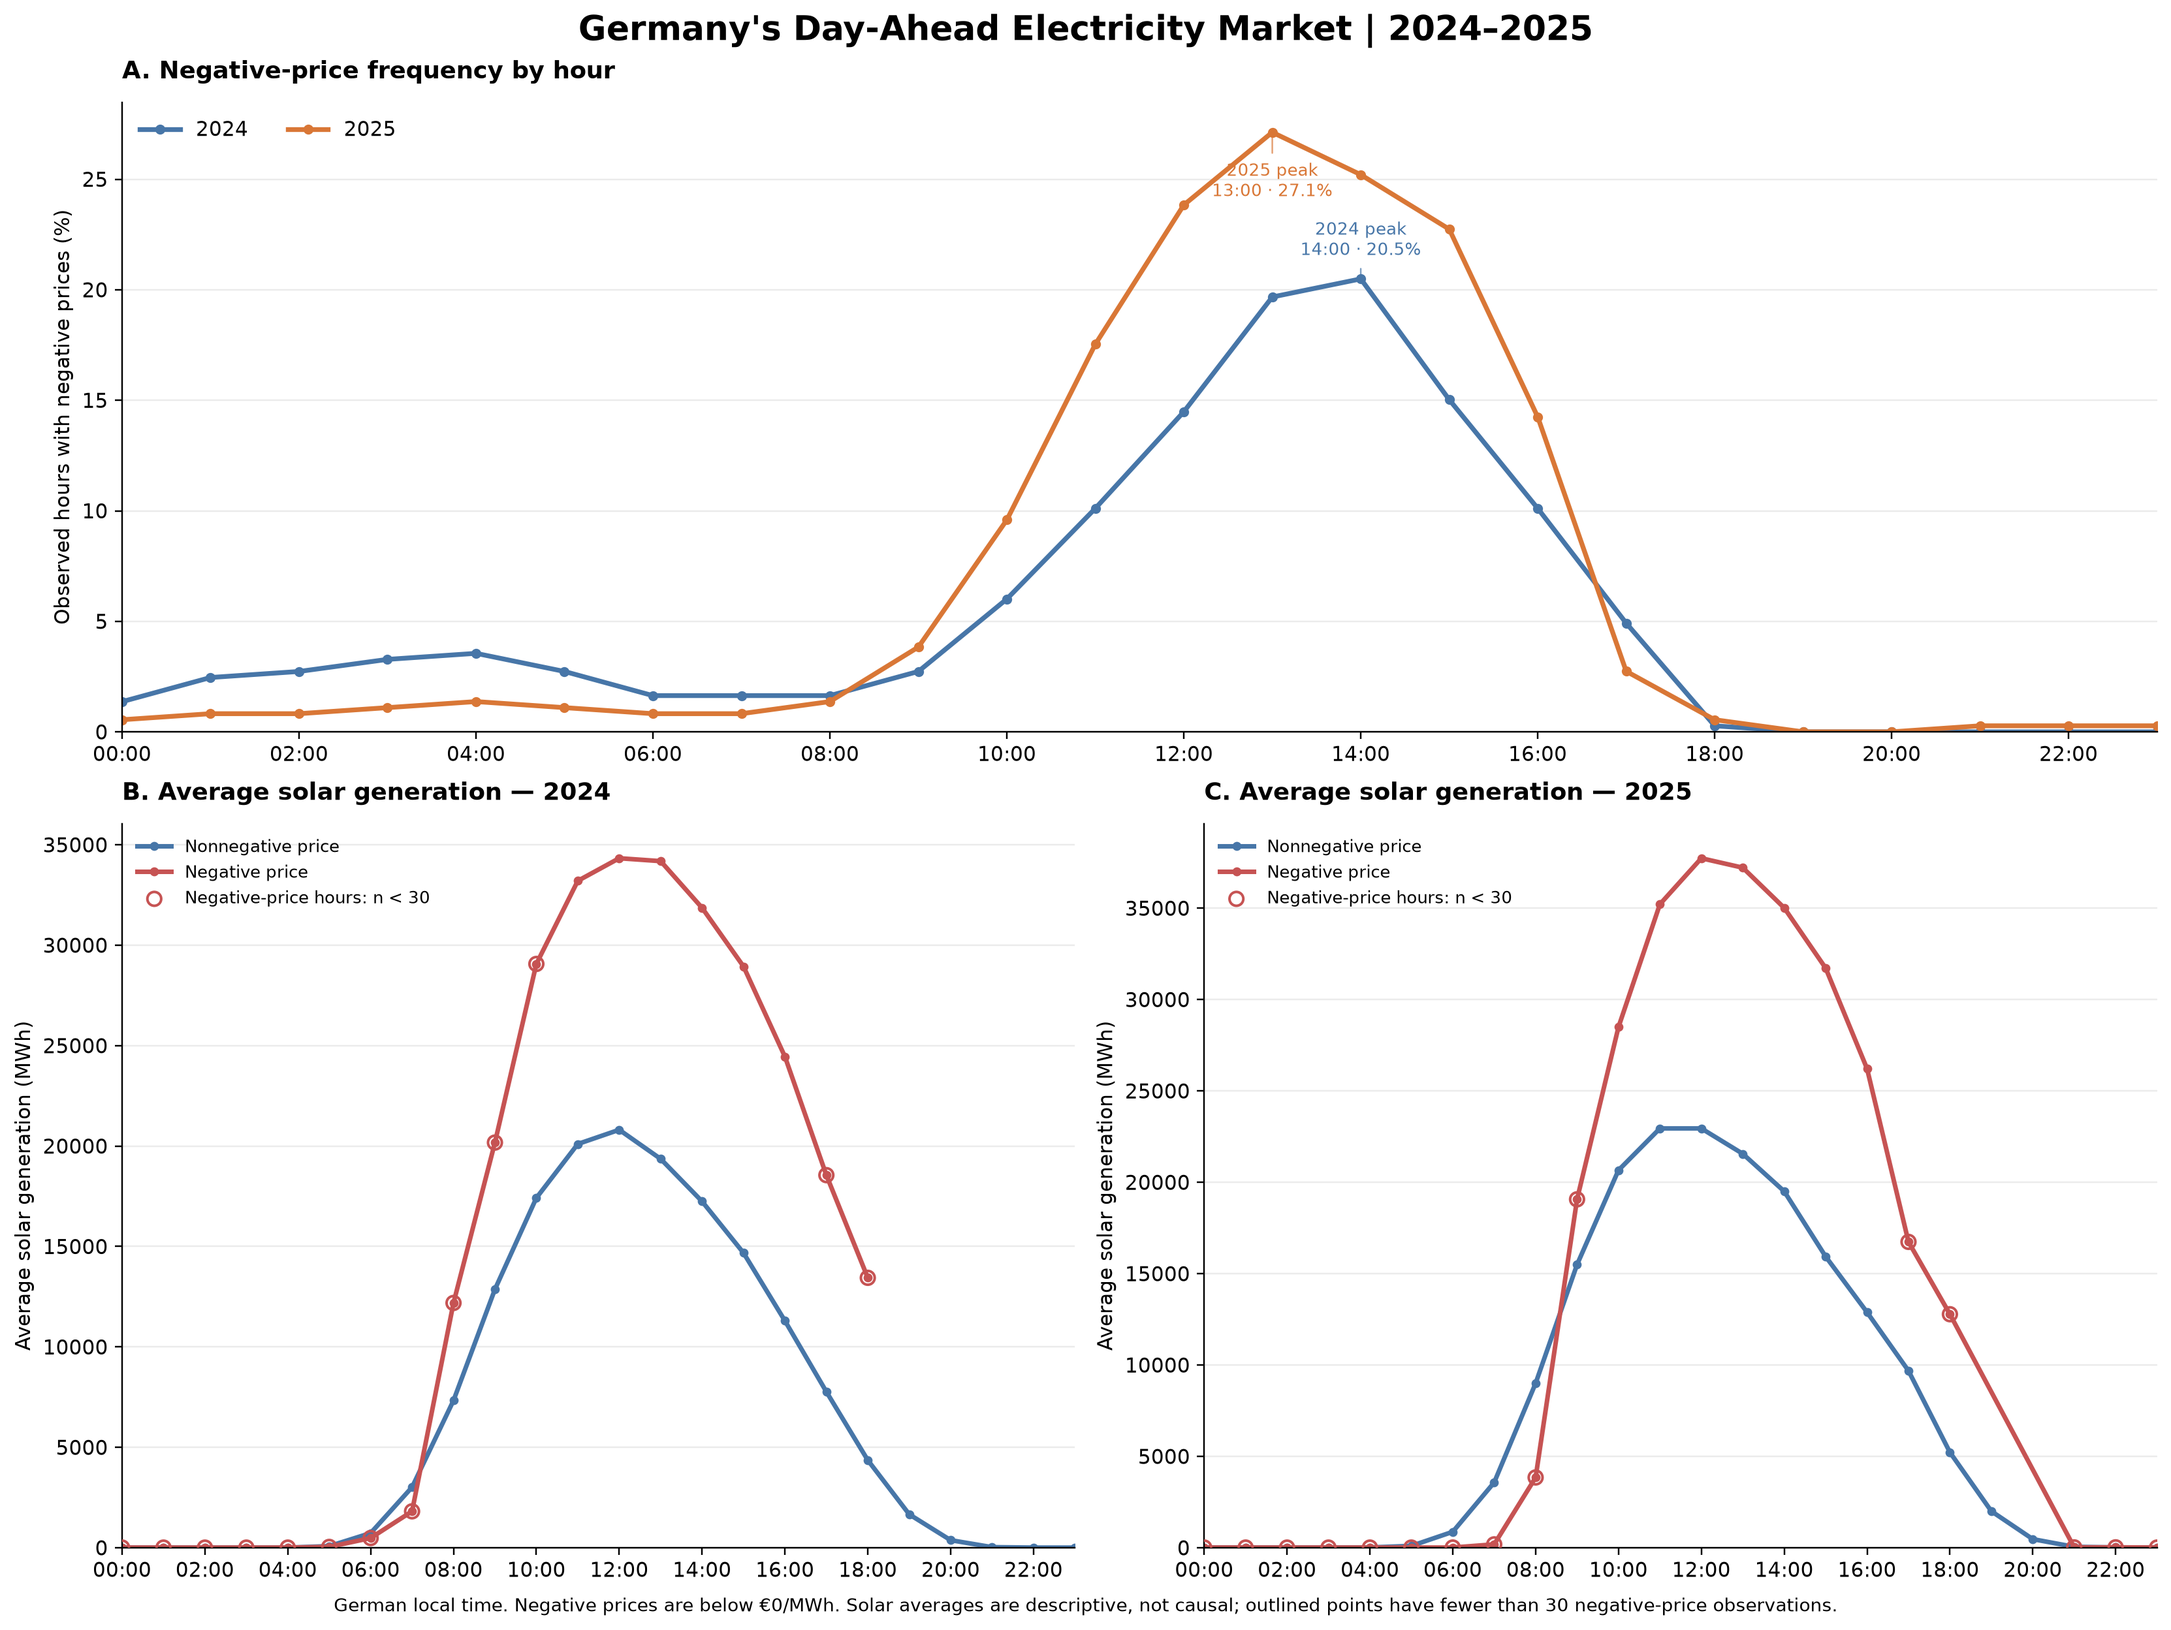
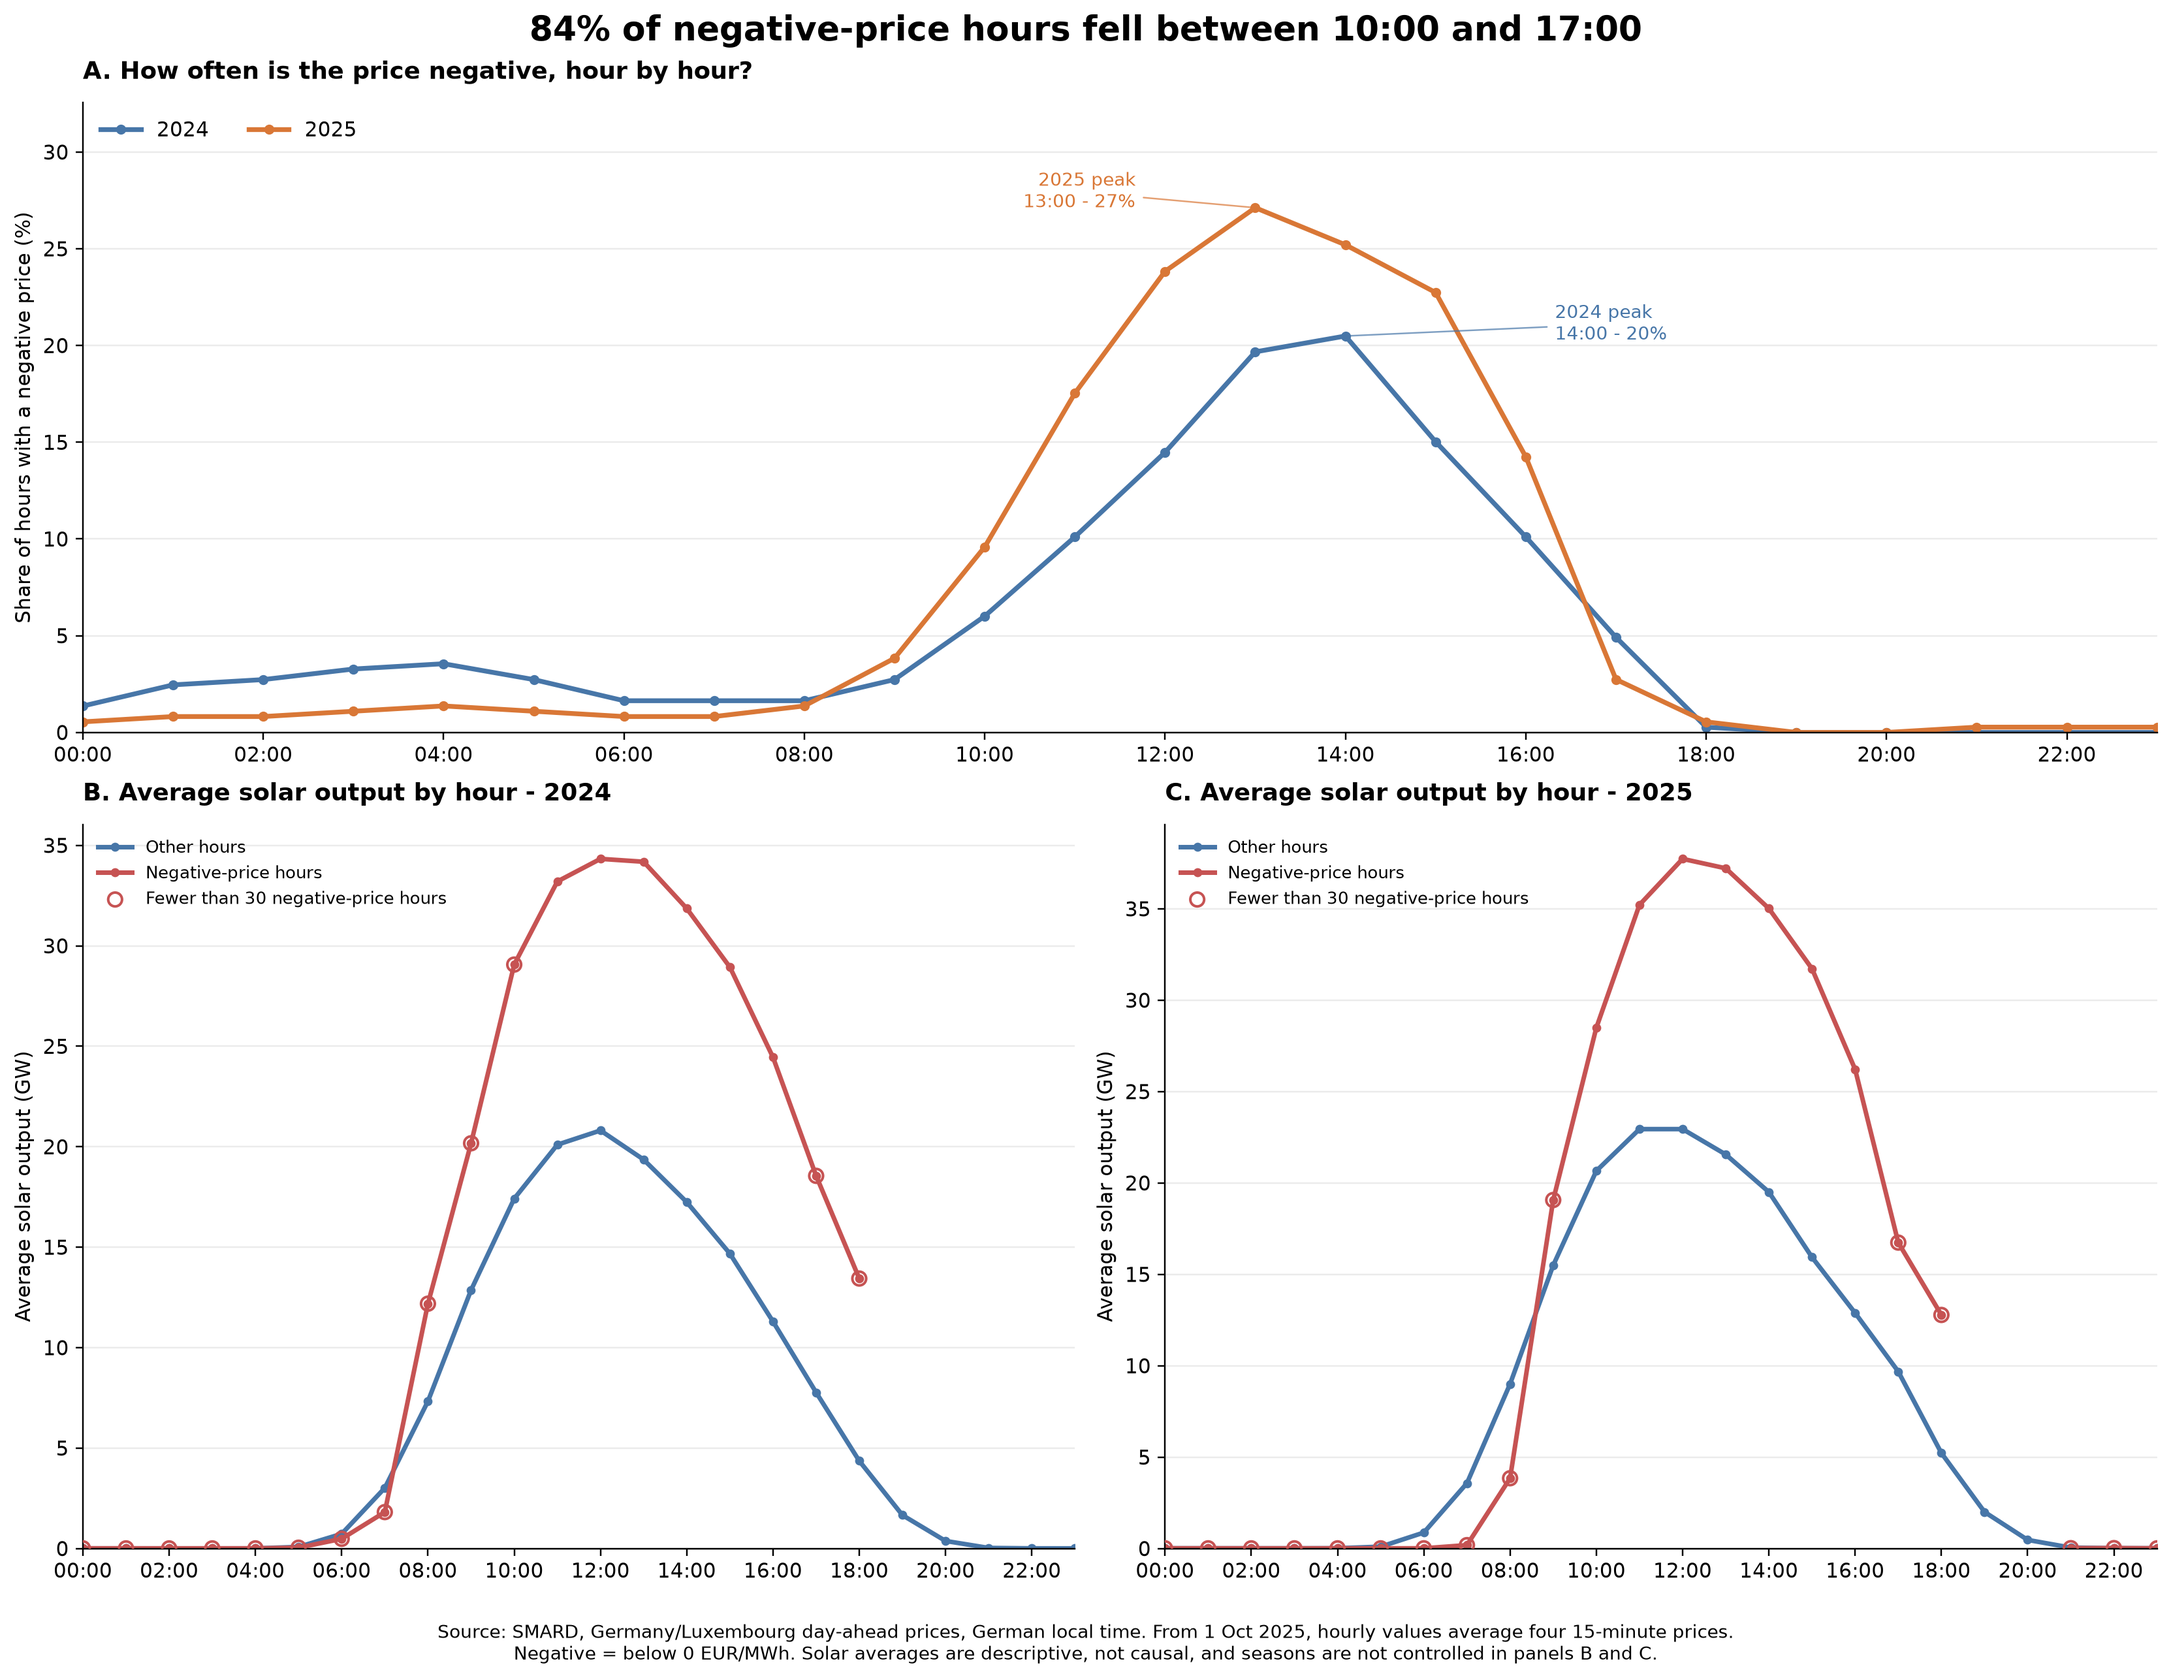
Redesign hour-of-day chart: plain headline, GW units, gaps for missing hours

diff --git a/src/gridsignal/plot_hour_of_day_analysis.py b/src/gridsignal/plot_hour_of_day_analysis.py
@@ -1,34 +1,43 @@
-
-from pathlib import Path
-
 import matplotlib.pyplot as plt
 import pandas as pd
 
+from gridsignal import config
 
-OUTPUT_DIR = Path("docs")
+FREQUENCY_FILE = config.DOCS_DIR / "hourly_negative_price_frequency_2024_2025.csv"
+SOLAR_FILE = config.DOCS_DIR / "hourly_solar_by_price_category_2024_2025.csv"
+OUTPUT_FILE = config.DOCS_DIR / "hour_of_day_analysis_2024_2025.png"
 
-FREQUENCY_FILE = (
-    OUTPUT_DIR / "hourly_negative_price_frequency_2024_2025.csv"
-)
-SOLAR_FILE = (
-    OUTPUT_DIR / "hourly_solar_by_price_category_2024_2025.csv"
-)
-OUTPUT_FILE = OUTPUT_DIR / "hour_of_day_analysis_2024_2025.png"
+MIDDAY_HOURS = range(10, 17)  # 10:00-16:59 German local time
+MIN_HOURS = 30  # fewer negative-price hours than this = flagged as a small sample
+ALL_HOURS = range(24)
 
-HOURS = list(range(24))
-
-# Use a consistent visual identity across all panels.
 COLORS = {
     "2024": "#4776A8",
     "2025": "#D97736",
     "Negative price": "#C65353",
     "Nonnegative price": "#4776A8",
 }
+LABELS = {
+    "Negative price": "Negative-price hours",
+    "Nonnegative price": "Other hours",
+}
+
+# Peak labels sit in empty space beside each curve, not on top of it.
+PEAK_LABEL_OFFSETS = {2024: (105, 6), 2025: (-60, 8)}
+PEAK_LABEL_ALIGN = {2024: "left", 2025: "right"}
+
+REQUIRED_FREQUENCY = {
+    "year", "hour", "observed_hours",
+    "negative_price_hours", "negative_price_rate_pct",
+}
+REQUIRED_SOLAR = {
+    "year", "hour", "price_category", "observed_hours", "average_solar_mwh",
+}
 
 
 def load_data():
-    """Load and validate the hourly analysis outputs."""
-    for path in [FREQUENCY_FILE, SOLAR_FILE]:
+    """Load and validate the outputs of analyze_hour_of_day.py."""
+    for path in (FREQUENCY_FILE, SOLAR_FILE):
         if not path.exists():
             raise FileNotFoundError(
                 f"Required file not found: {path}\n"
@@ -38,56 +47,42 @@ def load_data():
     frequency = pd.read_csv(FREQUENCY_FILE)
     solar = pd.read_csv(SOLAR_FILE)
 
-    required_frequency = {
-        "year",
-        "hour",
-        "observed_hours",
-        "negative_price_hours",
-        "negative_price_rate_pct",
-    }
-    required_solar = {
-        "year",
-        "hour",
-        "price_category",
-        "observed_hours",
-        "average_solar_mwh",
-    }
-
-    if not required_frequency.issubset(frequency.columns):
-        missing = required_frequency - set(frequency.columns)
-        raise ValueError(
-            f"Frequency file is missing columns: {sorted(missing)}"
-        )
-
-    if not required_solar.issubset(solar.columns):
-        missing = required_solar - set(solar.columns)
-        raise ValueError(
-            f"Solar file is missing columns: {sorted(missing)}"
-        )
+    for name, table, required in (
+        ("Frequency", frequency, REQUIRED_FREQUENCY),
+        ("Solar", solar, REQUIRED_SOLAR),
+    ):
+        missing = required - set(table.columns)
+        if missing:
+            raise ValueError(f"{name} file is missing columns: {sorted(missing)}")
 
     return frequency, solar
+
+
+def midday_share(frequency):
+    """Share of all negative-price hours that fall in the midday window."""
+    total = frequency["negative_price_hours"].sum()
+    midday = frequency.loc[
+        frequency["hour"].isin(MIDDAY_HOURS), "negative_price_hours"
+    ].sum()
+    return midday / total * 100
 
 
 def style_axis(ax):
     """Apply consistent styling to a chart axis."""
     ax.set_xlim(0, 23)
     ax.set_xticks(range(0, 24, 2))
-    ax.set_xticklabels(
-        [f"{hour:02d}:00" for hour in range(0, 24, 2)]
-    )
+    ax.set_xticklabels([f"{hour:02d}:00" for hour in range(0, 24, 2)])
     ax.grid(axis="y", alpha=0.25, linewidth=0.8)
     ax.spines["top"].set_visible(False)
     ax.spines["right"].set_visible(False)
 
 
 def plot_frequency(ax, frequency):
-    """Plot negative-price rates by local hour."""
-    for year in sorted(frequency["year"].unique()):
-        year_data = (
-            frequency[frequency["year"] == year]
-            .sort_values("hour")
-        )
+    """Plot the share of hours with a negative price, by hour of day."""
+    years = sorted(frequency["year"].unique())
 
+    for year in years:
+        year_data = frequency[frequency["year"] == year].sort_values("hour")
         ax.plot(
             year_data["hour"],
             year_data["negative_price_rate_pct"],
@@ -98,26 +93,20 @@ def plot_frequency(ax, frequency):
             label=str(year),
         )
 
-    # Mark the highest observed rate in each year.
-    for year in sorted(frequency["year"].unique()):
+    # Mark the highest observed rate in each year (computed from the data).
+    for year in years:
         year_data = frequency[frequency["year"] == year]
-        peak = year_data.loc[
-            year_data["negative_price_rate_pct"].idxmax()
-        ]
-
+        peak = year_data.loc[year_data["negative_price_rate_pct"].idxmax()]
         ax.annotate(
             f"{int(year)} peak\n"
-            f"{int(peak['hour']):02d}:00 · "
-            f"{peak['negative_price_rate_pct']:.1f}%",
-            xy=(
-                peak["hour"],
-                peak["negative_price_rate_pct"],
-            ),
-            xytext=(0, 12 if int(year) == 2024 else -32),
+            f"{int(peak['hour']):02d}:00 - {peak['negative_price_rate_pct']:.0f}%",
+            xy=(peak["hour"], peak["negative_price_rate_pct"]),
+            xytext=PEAK_LABEL_OFFSETS.get(int(year), (0, 12)),
             textcoords="offset points",
             color=COLORS[str(year)],
-            fontsize=8.5,
-            ha="center",
+            fontsize=9,
+            ha=PEAK_LABEL_ALIGN.get(int(year), "center"),
+            va="center",
             arrowprops={
                 "arrowstyle": "-",
                 "color": COLORS[str(year)],
@@ -127,123 +116,106 @@ def plot_frequency(ax, frequency):
         )
 
     ax.set_title(
-        "A. Negative-price frequency by hour",
+        "A. How often is the price negative, hour by hour?",
         loc="left",
         fontweight="bold",
         pad=12,
     )
-    ax.set_ylabel("Observed hours with negative prices (%)")
-    ax.set_ylim(bottom=0)
+    ax.set_ylabel("Share of hours with a negative price (%)")
+    ax.set_ylim(0, frequency["negative_price_rate_pct"].max() * 1.2)
     ax.legend(frameon=False, ncol=2, loc="upper left")
     style_axis(ax)
 
 
-def plot_solar_year(ax, solar, year):
-    """Compare solar generation by price category for one year."""
+def plot_solar_year(ax, solar, year, letter):
+    """Compare solar output in negative-price and other hours for one year."""
     year_data = solar[solar["year"] == year]
 
-    for category in ["Nonnegative price", "Negative price"]:
+    for category in ("Nonnegative price", "Negative price"):
+        # Reindex to all 24 hours so an hour with no observations becomes a
+        # gap in the line instead of a straight line drawn across it.
         category_data = (
             year_data[year_data["price_category"] == category]
-            .sort_values("hour")
+            .set_index("hour")
+            .reindex(ALL_HOURS)
         )
-
-        # A line is shown only for hours with observed data in
-        # this category. Missing combinations remain gaps.
         ax.plot(
-            category_data["hour"],
-            category_data["average_solar_mwh"],
+            category_data.index,
+            category_data["average_solar_mwh"] / 1000,  # MWh per hour -> GW
             color=COLORS[category],
             linewidth=2.3,
             marker="o",
             markersize=3.5,
-            label=category,
+            label=LABELS[category],
         )
 
-    # The overnight negative-price averages often have very small
-    # samples. Flag those points rather than hiding their uncertainty.
-    negative_data = year_data[
-        year_data["price_category"] == "Negative price"
-    ]
-
-    sparse = negative_data[
-        negative_data["observed_hours"] < 30
-    ]
-
+    # Overnight negative-price averages rest on very few hours; flag them
+    # instead of hiding the uncertainty.
+    negative = year_data[year_data["price_category"] == "Negative price"]
+    sparse = negative[negative["observed_hours"] < MIN_HOURS]
     if not sparse.empty:
         ax.scatter(
             sparse["hour"],
-            sparse["average_solar_mwh"],
+            sparse["average_solar_mwh"] / 1000,
             s=48,
             facecolors="none",
             edgecolors=COLORS["Negative price"],
             linewidths=1.3,
             zorder=5,
-            label="Negative-price hours: n < 30",
+            label=f"Fewer than {MIN_HOURS} negative-price hours",
         )
 
     ax.set_title(
-        f"{'B' if year == 2024 else 'C'}. Average solar generation — {year}",
+        f"{letter}. Average solar output by hour - {year}",
         loc="left",
         fontweight="bold",
         pad=12,
     )
-    ax.set_ylabel("Average solar generation (MWh)")
+    ax.set_ylabel("Average solar output (GW)")
     ax.set_ylim(bottom=0)
     ax.legend(frameon=False, fontsize=8.5, loc="upper left")
     style_axis(ax)
 
 
 def main():
-    OUTPUT_DIR.mkdir(parents=True, exist_ok=True)
+    config.DOCS_DIR.mkdir(parents=True, exist_ok=True)
 
     frequency, solar = load_data()
+    share = midday_share(frequency)
 
     fig = plt.figure(figsize=(15, 11), layout="constrained")
-    grid = fig.add_gridspec(
-        nrows=2,
-        ncols=2,
-        height_ratios=[1, 1.15],
-    )
+    grid = fig.add_gridspec(nrows=2, ncols=2, height_ratios=[1, 1.15])
 
     ax_frequency = fig.add_subplot(grid[0, :])
     ax_solar_2024 = fig.add_subplot(grid[1, 0])
     ax_solar_2025 = fig.add_subplot(grid[1, 1])
 
     plot_frequency(ax_frequency, frequency)
-    plot_solar_year(ax_solar_2024, solar, 2024)
-    plot_solar_year(ax_solar_2025, solar, 2025)
+    plot_solar_year(ax_solar_2024, solar, 2024, "B")
+    plot_solar_year(ax_solar_2025, solar, 2025, "C")
 
     fig.suptitle(
-        "Germany's Day-Ahead Electricity Market | 2024–2025",
+        f"{share:.0f}% of negative-price hours fell between 10:00 and 17:00",
         fontsize=17,
         fontweight="bold",
     )
 
     fig.text(
         0.5,
-        -0.015,
-        "German local time. Negative prices are below €0/MWh. "
-        "Solar averages are descriptive, not causal; "
-        "outlined points have fewer than 30 negative-price observations.",
+        -0.045,
+        "Source: SMARD, Germany/Luxembourg day-ahead prices, German local time. "
+        "From 1 Oct 2025, hourly values average four 15-minute prices.\n"
+        "Negative = below 0 EUR/MWh. Solar averages are descriptive, not causal, "
+        "and seasons are not controlled in panels B and C.",
         ha="center",
         fontsize=9,
-        wrap=True,
     )
 
-    fig.savefig(
-        OUTPUT_FILE,
-        dpi=220,
-        bbox_inches="tight",
-        facecolor="white",
-    )
+    fig.savefig(OUTPUT_FILE, dpi=220, bbox_inches="tight", facecolor="white")
     plt.close(fig)
 
     print(f"Visualization saved: {OUTPUT_FILE}")
-    print("Chart contains:")
-    print("  A. Negative-price frequency by hour for 2024 and 2025")
-    print("  B. Average solar generation by price category in 2024")
-    print("  C. Average solar generation by price category in 2025")
+    print(f"Midday share of negative-price hours: {share:.1f}%")
 
 
 if __name__ == "__main__":
